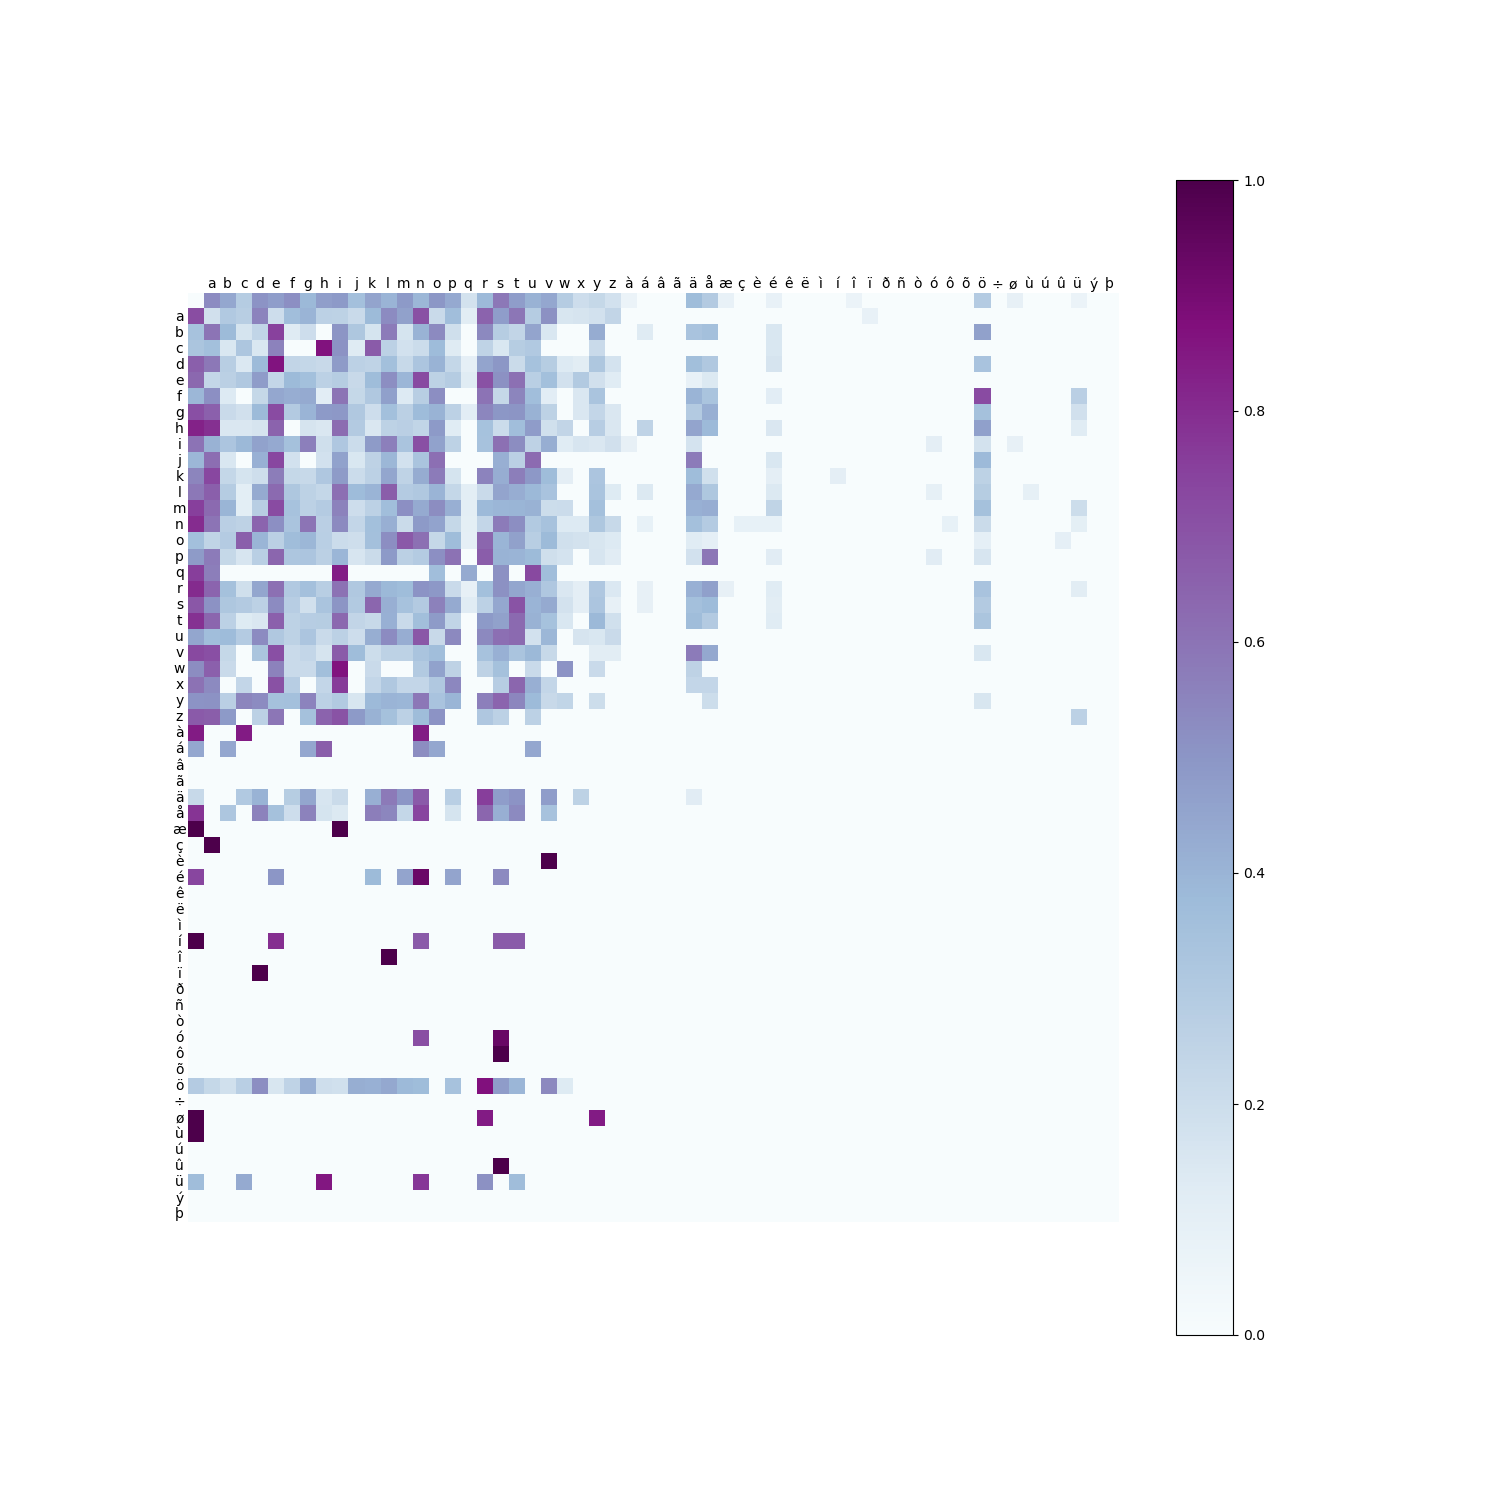
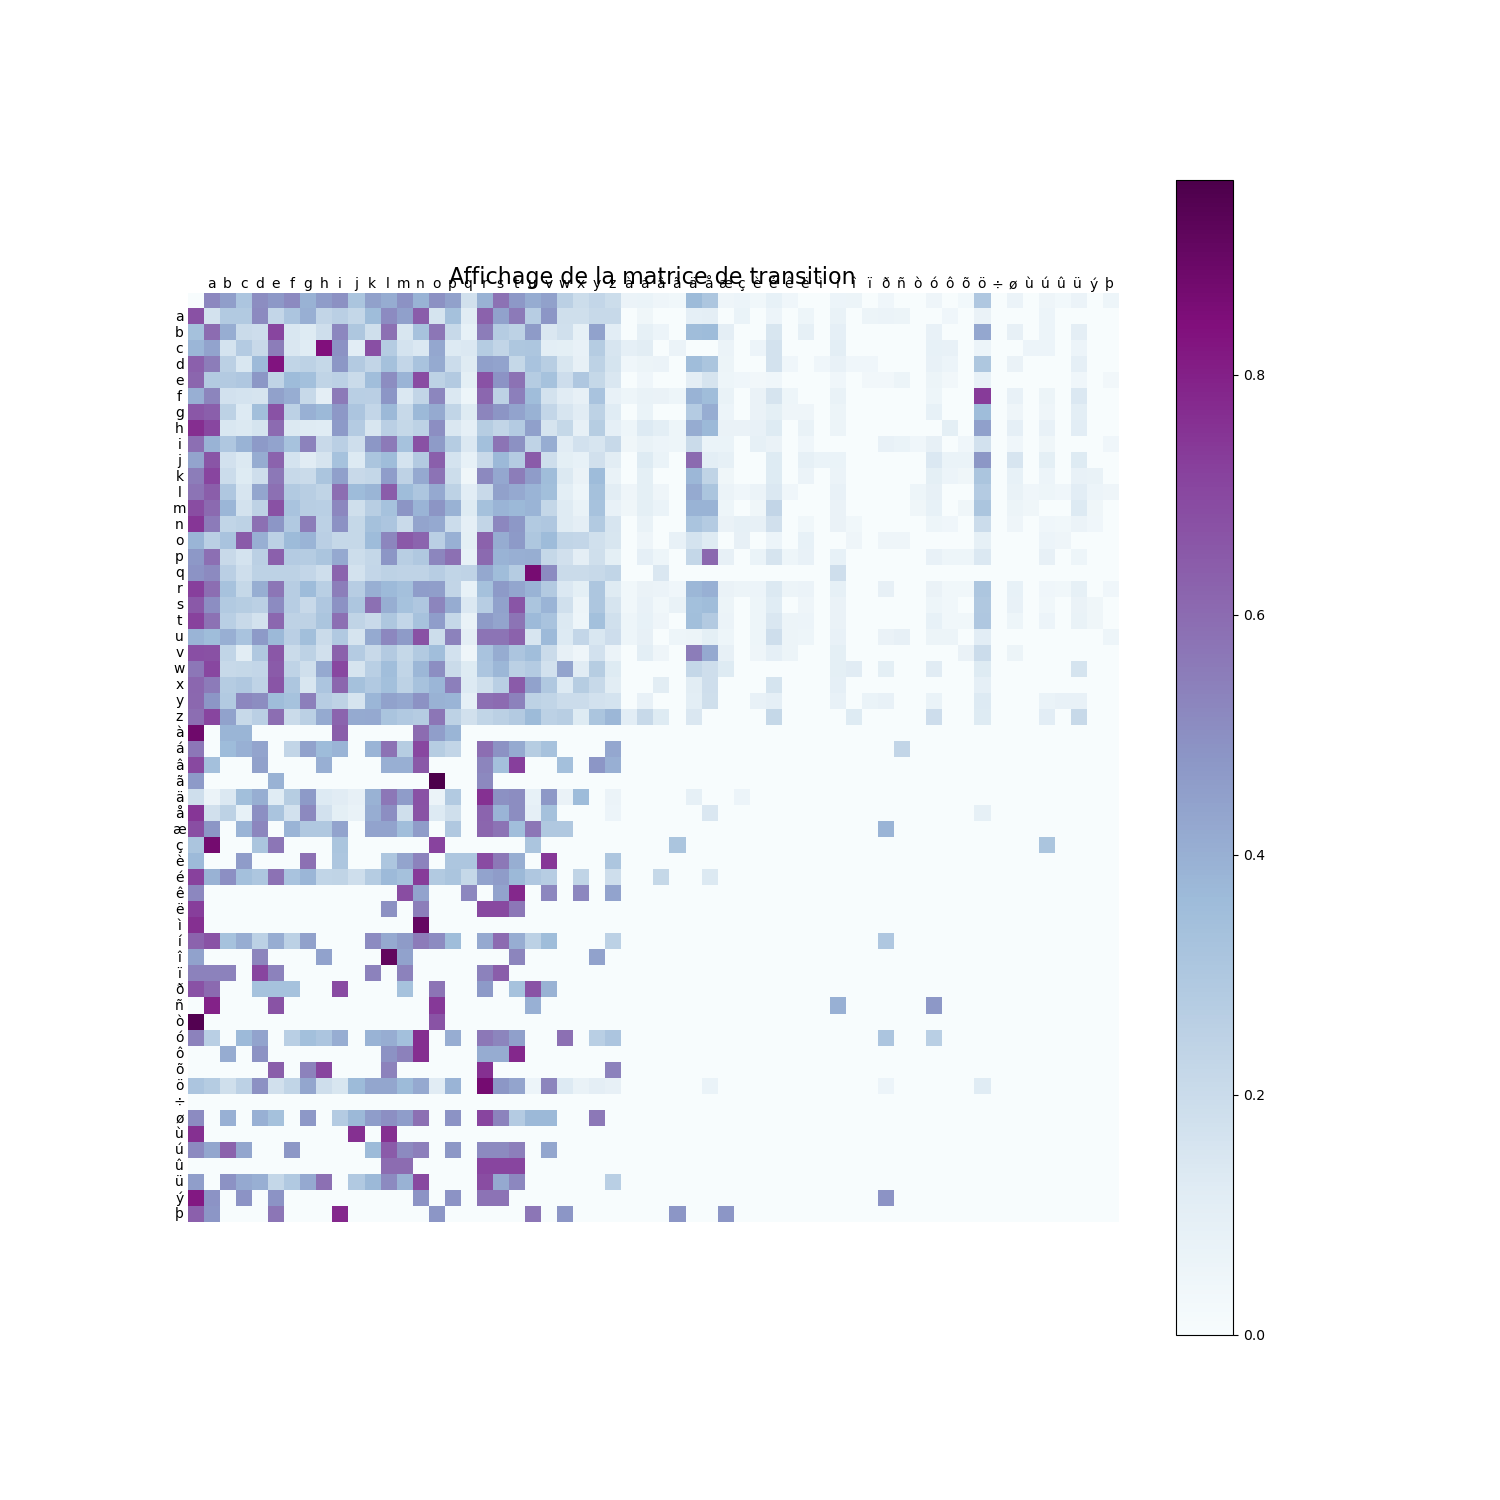
title

diff --git a/visualization/matrix_visualization/matrix_visualization_zoomed.py b/visualization/matrix_visualization/matrix_visualization_zoomed.py
@@ -7,22 +7,23 @@ import matplotlib
 matplotlib.use('Agg')
 import matplotlib.pyplot as plt
 
+# For all languages
 for language in conf_training.dic_api.keys():
-
+    # Load the matrix
     matrix = np.loadtxt(f"/home/onyxia/work/projet_python_ds/training/Matrix/Matrix_{language}.txt")
-    
+    #We select the rows ans columns with lowercases letters with and wihtout accents
     rows_to_keep = np.array([32] + list(range(97, 123)) + list(range(224, 255)))
     cols_to_keep = np.array([32] + list(range(97, 123)) + list(range(224, 255)))
     submatrix = matrix[np.ix_(rows_to_keep,cols_to_keep)].copy()
     submatrix=(submatrix.astype('float'))**0.25
-    submatrix[submatrix>1]=1
+    
     
 
-    # Affichage des couleurs représentant les fréquences
+    # Displaying colors representing frequencies.
     plt.figure(figsize=(15, 15))
     plt.imshow(submatrix, interpolation='nearest', cmap='BuPu')
     plt.axis('off')
-
+    plt.title("Affichage de la matrice de transition",fontsize=16)
 
     for ip,i in enumerate([32] + list(range(97, 123)) + list(range(224, 255))):
         plt.text(-1,ip,chr(i), horizontalalignment='center', verticalalignment='center')
